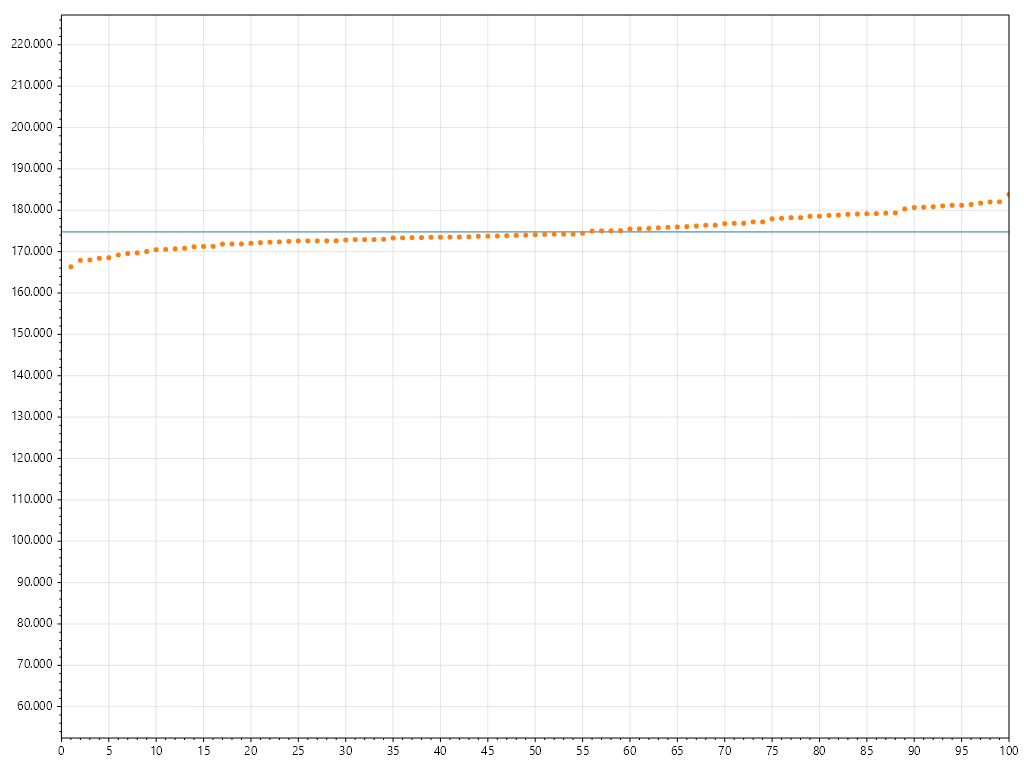
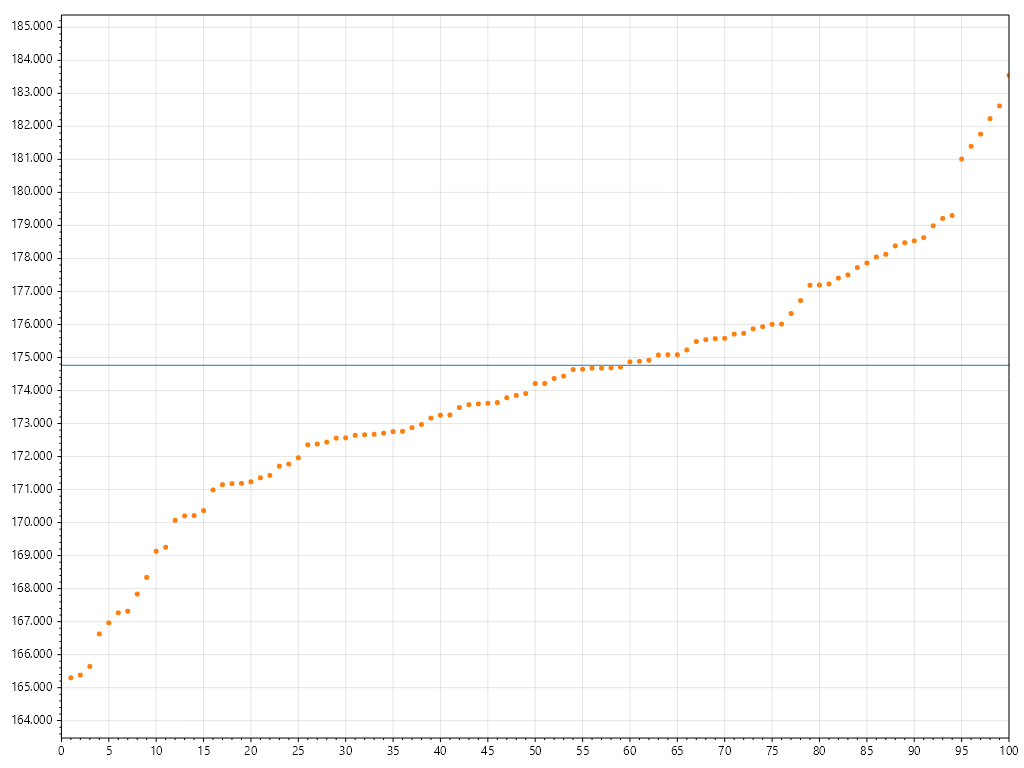
as

diff --git a/RadProject/Program.cs b/RadProject/Program.cs
@@ -156,7 +156,7 @@ namespace RadProject
                 avgRuntime = avgRuntime/testCount;
 
                 //results list sorted after estimates
-                List<long>QSTableSorted = QSTable;
+                List<long>QSTableSorted = new List<long>(QSTable);
                 QSTableSorted.Sort();
 
                 //mean square error, Expected value, variance.
@@ -206,8 +206,8 @@ namespace RadProject
                 // Add a scatter plot
                 plt.Add.Line(0, quadraticSum,100, quadraticSum);
                 List<int> numbers = Enumerable.Range(1, 100).ToList();
-                plt.Add.ScatterPoints(numbers, QSTable);
-                plt.Axes.SetLimits(0, 100, quadraticSum*0.3, quadraticSum*1.3);
+                plt.Add.ScatterPoints(numbers, QSTableSorted);
+                plt.Axes.SetLimits(0, 100, QSTableSorted[0]-0.1*(QSTableSorted[QSTableSorted.Count-1]-QSTableSorted[0]), QSTableSorted[QSTableSorted.Count-1]+0.1*(QSTableSorted[QSTableSorted.Count-1]-QSTableSorted[0]));
                 string filepath1=$"100ResultsPlotT{t}.png";
                 plt.SavePng(filepath1, 1024, 768);
                 Console.WriteLine("100 points Plot saved in directory");
@@ -217,7 +217,7 @@ namespace RadProject
                 plt2.Add.Line(0, quadraticSum,10, quadraticSum);
                 List<int> numbers2 = Enumerable.Range(1, 9).ToList();
                 plt2.Add.ScatterPoints(numbers2, QSTablemedians);
-                plt2.Axes.SetLimits(0, 10, quadraticSum*0.3, quadraticSum*1.3);
+                plt2.Axes.SetLimits(0, 10,QSTableSorted[0]-0.1*(QSTableSorted[QSTableSorted.Count-1]-QSTableSorted[0]), QSTableSorted[QSTableSorted.Count-1]+0.1*(QSTableSorted[QSTableSorted.Count-1]-QSTableSorted[0]));
                 string filepath2=$"MediansPlotT{t}.png";
                 plt2.SavePng(filepath2, 1024, 768);
                 Console.WriteLine("medians Plot saved in directory");
